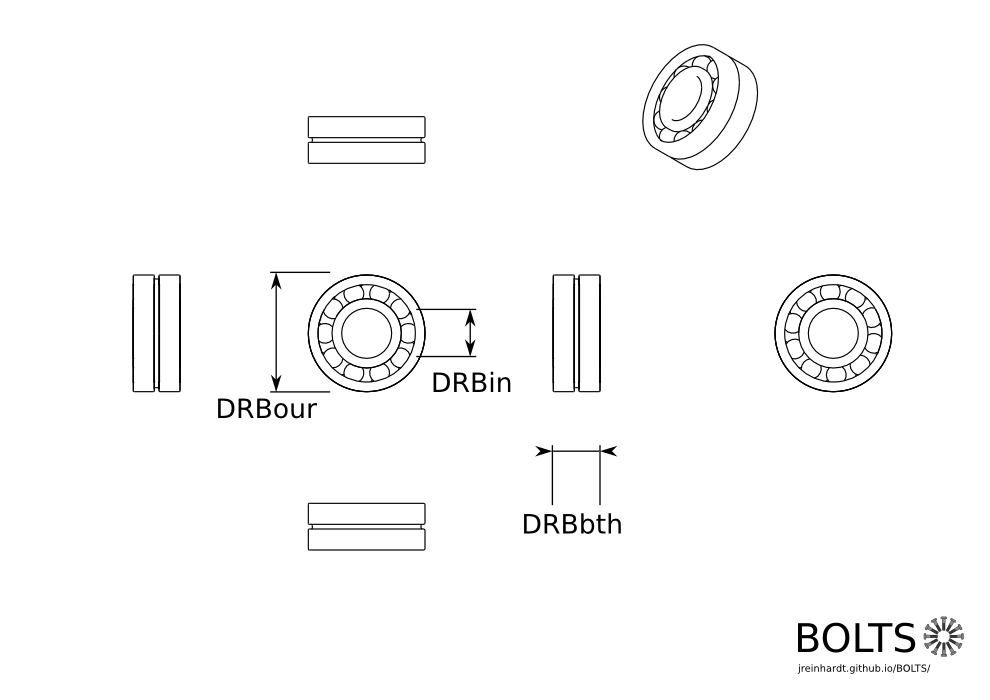
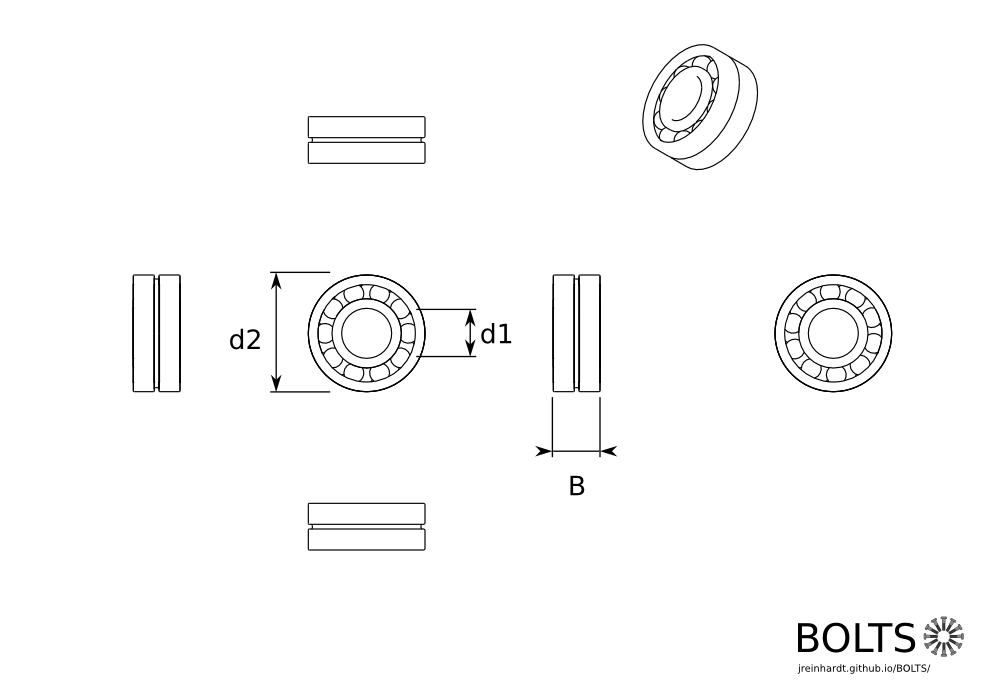
regenerated html

diff --git a/output/html/tasks.html b/output/html/tasks.html
@@ -52,10 +52,7 @@
 <tr><td>tslot20x20-1s</td> <td>profiles</td> <td>None</td></tr>
 <tr><td>tslot20x20-2s</td> <td>profiles</td> <td>None</td></tr>
 <tr><td>tslot20x20-3s</td> <td>profiles</td> <td>None</td></tr>
-<tr><td>doublerowradialbearing</td> <td>bearings</td> <td>['DIN625-3']</td></tr>
-<tr><td>axialthrustbearing</td> <td>bearings</td> <td>['DIN711', 'ISO104']</td></tr>
 <tr><td>needleroller</td> <td>bearings</td> <td>['DIN5405-1', 'ISO 3030']</td></tr>
-<tr><td>cylindricalrollerbearing</td> <td>bearings</td> <td>['DIN5412-1']</td></tr>
 <tr><td>plainwasherchamfered</td> <td>washer</td> <td>['ISO7090', 'DINISO7090', 'DINENISO7090', 'DIN125B']</td></tr>
 <tr><td>hexsocketcountersunk</td> <td>hex_socket</td> <td>['ISO10642', 'DINISO10642', 'DIN7991']</td></tr>
 <tr><td>hexsocketheadcap</td> <td>hex_socket</td> <td>['ISO4762', 'DINENISO4762', 'DIN912']</td></tr>
@@ -108,15 +105,9 @@
   <div class="inner-content">
     <h1>Nonconforming Parameter names</h1>
     <p>Parameter names should start with a upper- or lowercase letter. The rest of the name should consist of only lowercase letters, numbers and underscores</p>
-    <p>When changing these, make sure to update .blt files, drawings, and SolidWorks and FreeCAD base files.</p>
+    <p>When changing these, make sure to update .blt files, drawings, and all base files.</p>
     <table class="table">
       <tr><th>Parameter name</th> <th>Class id</th> <th>Collection</th><tr>
-<tr><td>DRBbth</td> <td>doublerowradialbearing</td> <td>bearings</td></tr>
-<tr><td>DRBinr</td> <td>doublerowradialbearing</td> <td>bearings</td></tr>
-<tr><td>DRBour</td> <td>doublerowradialbearing</td> <td>bearings</td></tr>
-<tr><td>CBbth</td> <td>cylindricalrollerbearing</td> <td>bearings</td></tr>
-<tr><td>CBour</td> <td>cylindricalrollerbearing</td> <td>bearings</td></tr>
-<tr><td>CBinr</td> <td>cylindricalrollerbearing</td> <td>bearings</td></tr>
     </table>
   </div>
 

diff --git a/output/html/index.html b/output/html/index.html
@@ -36,7 +36,7 @@
     <div class="cols">
       <div class="col">
         <h3>How does BOLTS work?</h3>
-        <p>BOLTS leverages the parametric abilities, that most CAD applications provide. This allows to obtain a huge number of different sizes and variants of a part from a single model.</p>
+        <p>BOLTS leverages the parametric abilities that most CAD applications provide. This allows to obtain a huge number of different sizes and variants of a part from a single model.</p>
         <p>Dimensions and metadata of all the sizes and versions of the part are kept in special files. BOLTS can then use this data and the parametric models of the parts to automatically build standard parts libraries ("BOLTS for ...") for different CAD tools, that the user just can simply download and use.</p>
         <p> So in a sense BOLTS is a tool to create standard parts libraries.</p>
       </div>
@@ -58,7 +58,7 @@
           <li> 8 <a href="{{ site.baseurl }}/html/index.html">collections</a> following</li>
           <li> 47 different standards issued by</li>
           <li> 8 <a href="{{ site.baseurl }}/html/index.html">standardization organisations</a></li>
-          <li> 612 different parts</li>
+          <li> 787 different parts</li>
         </ul>
       </div>
     </div>

diff --git a/output/html/html/classes/DIN5405-1.html b/output/html/html/classes/DIN5405-1.html
@@ -221,7 +221,7 @@
 <tr><td>K47X52X27</td> <td>47.0</td> <td>52.0</td> <td>27.0</td></tr>
 <tr><td>K4X7X10-TV</td> <td>4.0</td> <td>7.0</td> <td>10.0</td></tr>
 <tr><td>K4X7X7-TV</td> <td>4.0</td> <td>7.0</td> <td>7.0</td></tr>
-<tr><td>K50X55X13,5</td> <td>50.0</td> <td>55.0</td> <td>13.0</td> <td>5</td></tr>
+<tr><td>K50X55X13.5</td> <td>50.0</td> <td>55.0</td> <td>13.5</td></tr>
 <tr><td>K50X55X17</td> <td>50.0</td> <td>55.0</td> <td>17.0</td></tr>
 <tr><td>K50X55X20</td> <td>50.0</td> <td>55.0</td> <td>20.0</td></tr>
 <tr><td>K50X55X30</td> <td>50.0</td> <td>55.0</td> <td>30.0</td></tr>

diff --git a/output/html/html/classes/ISO 3030.html b/output/html/html/classes/ISO 3030.html
@@ -221,7 +221,7 @@
 <tr><td>K47X52X27</td> <td>47.0</td> <td>52.0</td> <td>27.0</td></tr>
 <tr><td>K4X7X10-TV</td> <td>4.0</td> <td>7.0</td> <td>10.0</td></tr>
 <tr><td>K4X7X7-TV</td> <td>4.0</td> <td>7.0</td> <td>7.0</td></tr>
-<tr><td>K50X55X13,5</td> <td>50.0</td> <td>55.0</td> <td>13.0</td> <td>5</td></tr>
+<tr><td>K50X55X13.5</td> <td>50.0</td> <td>55.0</td> <td>13.5</td></tr>
 <tr><td>K50X55X17</td> <td>50.0</td> <td>55.0</td> <td>17.0</td></tr>
 <tr><td>K50X55X20</td> <td>50.0</td> <td>55.0</td> <td>20.0</td></tr>
 <tr><td>K50X55X30</td> <td>50.0</td> <td>55.0</td> <td>30.0</td></tr>

diff --git a/output/html/contribute.html b/output/html/contribute.html
@@ -30,7 +30,7 @@
     </ul>
 
     <h3>Add more parts and drawings</h3>
-    <p>You can also help with adding more parts to BOLTS or improving those that are already there. To do so, you should first about a few basic things, that will be useful to know</p>
+    <p>You can also help with adding more parts to BOLTS or improving those that are already there. To do so, you should first read about a few basic things, that will be useful to know</p>
 
     <ul>
       <li><a href="{{site.baseurl}}/doc/general/introduction.html">A short introduction to BOLTS</a></li>

diff --git a/output/html/html/classes/DIN5412-1.html b/output/html/html/classes/DIN5412-1.html
@@ -54,7 +54,7 @@
   <div class="inner-content">
     <h1>Dimensions</h1>
     <table class="table">
-      <tr><th>key</th> <th>CBinr (mm)</th> <th>CBour (mm)</th> <th>CBbth (mm)</th><tr>
+      <tr><th>key</th> <th>d1 (mm)</th> <th>d2 (mm)</th> <th>B (mm)</th><tr>
 <tr><td>N202-E-TVP2</td> <td>15.0</td> <td>35.0</td> <td>11.0</td></tr>
 <tr><td>N203-E-TVP2</td> <td>17.0</td> <td>40.0</td> <td>12.0</td></tr>
 <tr><td>N204-E-TVP2</td> <td>20.0</td> <td>47.0</td> <td>14.0</td></tr>

diff --git a/output/html/html/classes/DIN625-3.html b/output/html/html/classes/DIN625-3.html
@@ -54,7 +54,7 @@
   <div class="inner-content">
     <h1>Dimensions</h1>
     <table class="table">
-      <tr><th>key</th> <th>DRBinr (mm)</th> <th>DRBour (mm)</th> <th>DRBbth (mm)</th><tr>
+      <tr><th>key</th> <th>d1 (mm)</th> <th>d2 (mm)</th> <th>B (mm)</th><tr>
 <tr><td>4200-B-TVH</td> <td>10.0</td> <td>30.0</td> <td>14.0</td></tr>
 <tr><td>4201-B-TVH</td> <td>12.0</td> <td>32.0</td> <td>14.0</td></tr>
 <tr><td>4202-B-TVH</td> <td>15.0</td> <td>35.0</td> <td>14.0</td></tr>
